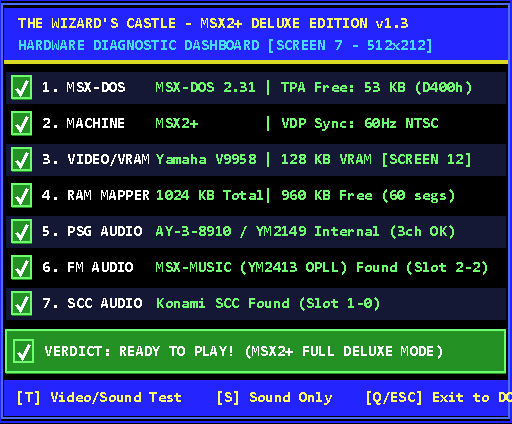
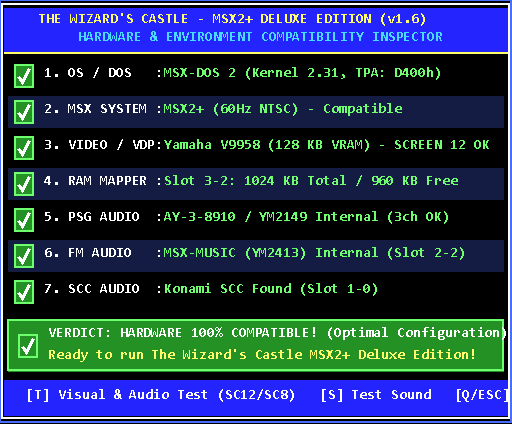
v1.6: Update README screenshots (MSX1/MSX2/MSX2+), docs (OUTLINE/MANUAL/SPEC), and create resume.txt

diff --git a/docs/OUTLINE.md b/docs/OUTLINE.md
@@ -31,7 +31,7 @@ Além de ser **100% compatível** com a lógica e regras do jogo original e do p
 
 ## 2. Status de Implementação (O que já foi feito vs. O que falta fazer)
 
-### Fase 1: Documentação, Arquitetura e Diagnóstico de Hardware (STUB)
+### Fase 1: Documentação, Arquitetura e Diagnóstico de Hardware (`v1.1` – `v1.6` — CONCLUÍDA)
 - [x] Análise completa do código-fonte C++ de `winwiz` (`wizard.h`, `CastleInit.cpp`, `initscrn.cpp`, `keyboard.cpp`, `combat.cpp`, `vendor.cpp`, `wfuncs.cpp`, `winwiz.cpp`).
 - [x] Análise da arquitetura e módulos do `MSXgl` (`dos`, `dos_mapper`, `vdp`, `msx-music`, `scc`, `psg`, `lvgm_player`, `ayfx_player`).
 - [x] Criação da pasta `docs/` com:
@@ -39,16 +39,26 @@ Além de ser **100% compatível** com a lógica e regras do jogo original e do p
   - [x] `docs/SPEC.md` (Especificação técnica detalhada)
   - [x] `docs/OUTLINE.md` (Este documento de acompanhamento)
   - [x] `docs/MANUAL.md` (Manual completo de compilação e do jogador)
-- [x] Criação da estrutura do projeto em `MSXgl/projects/wizcastle/` (`project_config.js`, `msxgl_config.h`, `build.bat`, `wizcastle.c`).
-- [x] Implementação e compilação do **STUB de Detecção de Hardware** (`wizcastle.c`), verificando:
-  - [x] Versão do MSX-DOS (DOS 1.x vs DOS 2.x / Nextor) e TPA livre
-  - [x] Geração do MSX (MSX1, MSX2, MSX2+, MSX turbo R) e frequência VBlank (50Hz / 60Hz)
-  - [x] Chip VDP (TMS9918A, V9938, V9958) e quantidade de VRAM (16 KB, 64 KB, 128 KB)
-  - [x] Memory Mapper (Extended BIOS, número de segmentos, RAM Total em KB e RAM Livre em KB)
-  - [x] Chip de som PSG (AY-3-8910 / YM2149) com teste de registrador e bip sonoro
-  - [x] Chip de som FM MSX-MUSIC (YM2413 / OPLL interno ou externo + Slot/Subslot)
-  - [x] Chip de som Konami SCC / SCC+ (+ Slot/Subslot)
-  - [x] Veredito final de compatibilidade (`READY TO PLAY` vs lista de requisitos ausentes)
+- [x] Criação da estrutura do projeto em `MSXgl/projects/wizcastle/` (`project_config.js`, `msxgl_config.h`, `build.bat`, `wizcastle.c`, `src/wiz_hwcheck.c`, `src/wiz_hwcheck.h`, `src/wiz_version.h`).
+- [x] Configuração de licenciamento dual (`LICENSE`), `README.md`, `CHANGELOG.md` e `resume.txt`.
+- [x] Implementação do **Disco de Boot Universal (`DOS2_wizcastle.dsk`)** em 3 camadas:
+  - [x] **MSX-DOS 2 (`MSXDOS2.SYS` + `COMMAND2.COM`):** Boot nativo para MSX2 / MSX2+ / turbo R com MSX-DOS 2 / Nextor.
+  - [x] **MSX-DOS 1 (`MSXDOS.SYS` + `COMMAND.COM`):** Boot automático para máquinas MSX1 / MSX2 / MSX2+ com apenas ROM de MSX-DOS 1 e `>= 64 KB` de RAM.
+  - [x] **MSX Disk-BASIC Fallback (`AUTOEXEC.BAS`):** Relatório de incompatibilidade para MSX1 com `< 64 KB` de RAM (16/32 KB) que caem no Disk-BASIC.
+- [x] Implementação do **Dashboard Gráfico Adaptativo de Diagnóstico de Hardware** (`src/wiz_hwcheck.c`):
+  - [x] **`SCREEN 7` (`512×212`, 16 cores) para MSX2 / MSX2+ / MSX turbo R (`V9938` / `V9958`):** Cartões com badges gráficos `20×12` (`[✓]` Verde, `[✗]` Vermelho, `[!]` Amarelo, `[i]` Ciano).
+  - [x] **`SCREEN 2` (`256×192`, 32×24 tiles) para MSX1 (`TMS9918A`):** Tiles gráficos customizados `8×8` (`[✓]`, `[✗]`, `[!]`, `[i]`) e escrita direta nos registradores `R#0..R#7` (evitando espelhamento de 3 bits `R#8..R#25 -> R#0..R#7` no `TMS9918A`).
+  - [x] Inspeção de 7 subsistemas:
+    1. Versão do MSX-DOS (DOS 1.x vs DOS 2.x / Nextor) e TPA livre (`0006h`)
+    2. Geração do MSX (MSX1, MSX2, MSX2+, MSX turbo R) e frequência VBlank (50Hz / 60Hz)
+    3. Chip VDP (TMS9918A, V9938, V9958) e quantidade de VRAM (16 KB, 64 KB, 128 KB)
+    4. Memory Mapper (Extended BIOS, Slot, número de segmentos, RAM Total e RAM Livre)
+    5. Chip de som PSG (AY-3-8910 / YM2149) via loopback de registrador
+    6. Chip de som FM MSX-MUSIC (YM2413 / OPLL interno ou externo + Slot/Subslot)
+    7. Chip de som Konami SCC / SCC+ (+ Slot/Subslot)
+  - [x] **Teste Interativo Visual e Sonoro (`[T]` / `[S]`):**
+    - [x] Teste de `SCREEN 12` (19.268 cores YJK) + `SCREEN 8` (mockup do layout de 256 cores GRB) + acorde simultâneo em `PSG` + `YM2413 OPLL` + `Konami SCC`.
+    - [x] Preservação e restauração automática da fonte de modo texto (`0xD800` VRAM) ao retornar ao MSX-DOS (`[Q]`/`[ESC]`).
 
 ---
 

diff --git a/docs/MANUAL.md b/docs/MANUAL.md
@@ -51,13 +51,25 @@ Para a experiência completa, configure seu emulador ou hardware real com:
   * **MSX-MUSIC (YM2413 / OPLL — FM)** interno ou via cartucho (FM-PAC / Carnivore2) para a trilha sonora FM.
   * **Konami SCC / SCC+** (opcional, detectado automaticamente se inserido em um slot).
 
-### 4. Utilitário de Diagnóstico de Hardware no Boot
-Ao executar `WIZCASTL.COM` no MSX-DOS, o programa realiza uma verificação completa do hardware antes de iniciar a partida:
-* **OS / MSX-DOS:** Verifica se está rodando sob MSX-DOS 2 (ou Nextor) com suporte a *File Handles* (BDOS `40h+`). Se iniciado sob MSX-DOS 1, exibe `[FAIL]` indicando que o MSX-DOS 2 é necessário.
-* **MSX Generation & VDP:** Verifica a geração da máquina na BIOS (`002Dh`) e o chip de vídeo (`V9958` vs `V9938`/`TMS9918A`), além da frequência vertical (`50Hz` PAL / `60Hz` NTSC).
-* **VRAM Size:** Confirma a presença de **128 KB de VRAM** necessários para as duas páginas do SCREEN 8 e SCREEN 12.
-* **Memory Mapper:** Consulta a Extended BIOS (`ALL_SEG` / `GET_VAR`) e mostra quantos segmentos de 16 KB existem no total (ex: `64 segs = 1024 KB`) e quantos estão livres para o jogo.
-* **Chips de Áudio (PSG, FM OPLL, Konami SCC):** Testa os registradores do PSG e escaneia todos os slots primários e expandidos em busca do **MSX-MUSIC (YM2413)** e do **Konami SCC**, exibindo o Slot/Subslot exato onde cada chip foi encontrado.
+### 4. Utilitário Gráfico de Diagnóstico de Hardware e Disco Universal (`v1.6`)
+A imagem de disco **`emul/dsk/DOS2_wizcastle.dsk`** conta com **Boot Universal em 3 camadas**, permitindo testar a compatibilidade em qualquer computador MSX com drive de disquete:
+1. **MSX-DOS 2 (`MSXDOS2.SYS` + `COMMAND2.COM`):** Inicia o `WIZCASTL.COM` em máquinas MSX2 / MSX2+ / turbo R com MSX-DOS 2 ou Nextor.
+2. **MSX-DOS 1 (`MSXDOS.SYS` + `COMMAND.COM`):** Inicia o `WIZCASTL.COM` em máquinas MSX1 / MSX2 / MSX2+ que possuem apenas ROM de MSX-DOS 1 e `>= 64 KB` de RAM.
+3. **MSX Disk-BASIC (`AUTOEXEC.BAS`):** Caso a máquina tenha `< 64 KB` de RAM (ex: MSX1 de 16 KB ou 32 KB sem RAM na Página 0) e caia no Disk-BASIC, executa automaticamente o `AUTOEXEC.BAS` exibindo o relatório de incompatibilidade.
+
+Ao executar `WIZCASTL.COM`, o programa abre automaticamente um **Dashboard Gráfico Adaptativo**:
+* **Em MSX2 / MSX2+ / MSX turbo R (`V9938` / `V9958`):** Renderiza um painel gráfico em **`SCREEN 7` (`512×212`, 16 cores)** com cartões e *badges* gráficos `20×12` pixels (`[✓]` Verde, `[✗]` Vermelho, `[!]` Amarelo e `[i]` Ciano).
+* **Em MSX1 (`TMS9918A`):** Renderiza um painel gráfico em **`SCREEN 2` (`256×192`, 32×24 tiles)** com ícones gráficos customizados `8×8` (`[✓]`, `[✗]`, `[!]`, `[i]`) usando acesso direto aos registradores `R#0..R#7` (evitando o espelhamento de 3 bits do `TMS9918A`).
+* **Itens Inspecionados:**
+  1. **OS / MSX-DOS:** Verifica se está rodando sob MSX-DOS 2 / Nextor (`Kernel >= 2.20`) e exibe o topo da TPA (`0006h`).
+  2. **MSX Generation:** Verifica a geração da máquina (`MSX1`, `MSX2`, `MSX2+`, `MSX turbo R`) e a frequência vertical (`50Hz` PAL / `60Hz` NTSC).
+  3. **Video / VDP & VRAM:** Identifica o VDP (`TMS9918A`, `V9938`, `V9958`) e a quantidade de VRAM (`16 KB`, `64 KB`, `128 KB`).
+  4. **Memory Mapper:** Consulta a Extended BIOS (`ALL_SEG` / `GET_VAR`) e mostra o Slot, RAM total em KB (ex: `1024 KB`) e RAM livre em KB.
+  5. **Chips de Áudio (PSG, FM OPLL, Konami SCC):** Testa os registradores do PSG e escaneia todos os slots primários e expandidos em busca do **MSX-MUSIC (YM2413)** e do **Konami SCC**, exibindo o Slot/Subslot exato onde cada chip foi encontrado.
+* **Atalhos Interativos (quando compatível):**
+  * **`[T]`:** Executa o teste visual de **`SCREEN 12`** (19.268 cores YJK) + **`SCREEN 8`** (mockup de 256 cores GRB da interface do jogo) + acorde simultâneo em **PSG + FM + SCC**.
+  * **`[S]`:** Reproduz o teste sonoro polifônico.
+  * **`[Q]` / `[ESC]`:** Restaura a fonte original da `SCREEN 0` (salva em `0xD800` da VRAM) e retorna limpo ao prompt do MSX-DOS.
 
 ---
 

diff --git a/README.md b/README.md
@@ -20,23 +20,32 @@ This **MSX2+ Enhanced Edition** preserves **100% gameplay compatibility** while 
   - **Music (lVGM):** Hybrid background soundtrack utilizing **PSG (AY-3-8910)** + **MSX-MUSIC (YM2413 / OPLL FM)** + **Konami SCC** (when present).
   - **Sound Effects (ayFX):** 16 distinct in-game sound effects (footsteps, stairs, sinkholes, warps, sword hits, fireballs, vendor chimes, victory/death fanfares) mixed on PSG Channel C.
 - **Bilingual Support:** Full in-game localization in **English (`EN`)** and **Portuguese (`PT-BR`)**.
-- **Built-in Hardware Diagnostic Tool:** Startup hardware inspector verifying MSX generation (MSX1/MSX2/MSX2+/Turbo R), VDP (TMS9918/V9938/V9958), MSX-DOS version, Extended BIOS Mapper RAM (testing for 1024 KB total / ≥128 KB free), PSG, MSX-MUSIC (FM), and Konami SCC.
+- **Adaptive Graphical Hardware Diagnostic Dashboard & Universal Boot Disk (`v1.6`):**
+  - **Universal Boot Disk (`DOS2_wizcastle.dsk`):** Bundled with `MSXDOS2.SYS` + `COMMAND2.COM` (MSX-DOS 2), `MSXDOS.SYS` + `COMMAND.COM` (MSX-DOS 1.11), and `AUTOEXEC.BAS` (MSX Disk-BASIC fallback) so **any** MSX machine (MSX1, MSX2, MSX2+, or turbo R) boots directly into the diagnostic report instead of dropping to a blank BASIC prompt.
+  - **`SCREEN 7` (`512×212`, 16 colors) on MSX2 / MSX2+ / turbo R:** High-resolution graphical inspector with `20×12` pixel badges (`[✓]` Green, `[✗]` Red, `[!]` Yellow, `[i]` Cyan).
+  - **`SCREEN 2` (`256×192`, 32×24 tiles) on MSX1 (`TMS9918A`):** Custom 8×8 graphical badge tiles (`[✓]`, `[✗]`, `[!]`, `[i]`) and color-coded status rows using pure `R#0..R#7` register writes (preventing 3-bit `TMS9918A` register mirroring).
 
 ---
 
 ## Screenshots / Galeria Visual
 
-### 1. MSX2+ Hardware Diagnostic Stub & Video/Audio Verification (`v1.2`)
+### 1. Adaptive Graphical Hardware Diagnostic Dashboard (`v1.6`)
 
-| MSX-DOS 2 Hardware Compatibility Report (`SCREEN 0`, 80×24) |
+| **MSX2+ / turbo R — `SCREEN 7` (`512×212`, 100% Compatible)** |
 | :---: |
-| ![MSX-DOS 2 Hardware Report](docs/images/msx_hwcheck_report.png) |
+| ![MSX2+ SCREEN 7 Hardware Report](docs/images/msx_hwcheck_report.png) |
 
-| `SCREEN 12` Test (19,268 YJK Colors) | `SCREEN 8` Game UI Layout Mockup (256 Colors) |
+| **MSX2 (`V9938` / `MSX-DOS 1`) — `SCREEN 7` (`512×212`)** | **MSX1 (`TMS9918A` / `MSX-DOS 1`) — `SCREEN 2` (`256×192`)** |
+| :---: | :---: |
+| ![MSX2 SCREEN 7 Hardware Report](docs/images/msx2_hwcheck_screen7.png) | ![MSX1 SCREEN 2 Hardware Report](docs/images/msx1_hwcheck_screen2.png) |
+
+### 2. Interactive Visual & Audio Hardware Verification (`[T]` / `[S]` Keys)
+
+| `SCREEN 12` Test (19,268 YJK Colors + PSG/FM/SCC Audio) | `SCREEN 8` Game UI Layout Mockup (256 GRB Colors) |
 | :---: | :---: |
 | ![MSX2+ SCREEN 12 Test](docs/images/msx_hwcheck_sc12.png) | ![MSX2+ SCREEN 8 Layout](docs/images/msx_hwcheck_sc8.png) |
 
-### 2. Original Reference Version Being Ported (*WinWiz* by Daniel D. Miller)
+### 3. Original Reference Version Being Ported (*WinWiz* by Daniel D. Miller)
 
 | Intro & Rules Screen | Main Dungeon Map & HUD | Vendor Trading Screen |
 | :---: | :---: | :---: |
@@ -74,6 +83,8 @@ wizcastle/
 │           ├── wizcastle.c         # Main entry point (DOS2 main)
 │           └── src/                # Game modules (hardware check, mapper, video, audio, logic)
 ├── winwiz/                         # Reference C++ Port by Daniel D. Miller (CC0 1.0)
+├── CHANGELOG.md                    # Complete X.Y Version & Build History
+├── resume.txt                      # Multi-PC Development Handoff & Progress Summary
 ├── LICENSE                         # Licensing & Third-Party Attributions
 └── README.md                       # This file
 ```

diff --git a/docs/SPEC.md b/docs/SPEC.md
@@ -6,16 +6,16 @@
 ## 1. Visão Geral do Sistema
 **The Wizard's Castle — MSX2+ Deluxe Edition** é uma recriação gráfica e sonora para computadores **MSX2+** (e compatíveis superiores como MSX turbo R) rodando **MSX-DOS 2**, mantendo 100% de fidelidade às regras tanto do port em C++ (**WinWiz**, de Daniel D. Miller, 1985–2025) quanto do jogo original em BASIC (**The Wizard's Castle**, de Joseph R. Power, *Recreational Computing*, Jul/Ago 1980).
 
-### 1.1 Requisitos de Hardware e Sistema
-| Componente | Requisito Mínimo (Obrigatório) | Recomendado (Ideal) | Comportamento do Diagnóstico (Stub) |
+### 1.1 Requisitos de Hardware, Disco de Boot Universal e Diagnóstico Gráfico (`v1.6`)
+| Componente | Requisito Mínimo (Obrigatório) | Recomendado (Ideal) | Comportamento do Diagnóstico Gráfico (`SCREEN 7` / `SCREEN 2`) |
 | :--- | :--- | :--- | :--- |
-| **Geração MSX** | **MSX2+** (`ID >= 2` em `002Dh`) | **MSX2+** ou **MSX turbo R** | Em MSX1 ou MSX2 alerta falta de SCREEN 12 / V9958 (`[FAIL]` em MSX1, `[WARN]`/`[FAIL]` em MSX2). |
-| **VDP (Vídeo)** | **Yamaha V9958** com **128 KB VRAM** | **Yamaha V9958** (128 KB VRAM) | Verifica `VDP_GetVersion() == VDP_VERSION_V9958` e `g_MODE` (`128 KB VRAM`). |
-| **Sistema Operacional** | **MSX-DOS 2.20+** ou **Nextor** | **MSX-DOS 2.20+** / **Nextor 2.1+** | Em MSX-DOS 1.x reporta ausência de File Handles e Extended BIOS Mapper (`[FAIL]`). |
-| **RAM (Memory Mapper)** | **256 KB** (mín. 8 segmentos livres) | **1024 KB (1 MB)** (64 segmentos) | Verifica `DOSMapper_Init()`, lista total de RAM (KB) e RAM livre (KB). |
+| **Geração MSX** | **MSX2+** (`ID >= 2` em `002Dh`) | **MSX2+** ou **MSX turbo R** | Em MSX2/2+/TR renderiza dashboard em **`SCREEN 7` (`512×212`)**; em MSX1 renderiza dashboard em **`SCREEN 2` (`256×192`)** com badges `[✓]`/`[✗]`/`[!]`/`[i]`. |
+| **VDP (Vídeo)** | **Yamaha V9958** com **128 KB VRAM** | **Yamaha V9958** (128 KB VRAM) | Verifica `VDP_GetVersion() == VDP_VERSION_V9958` e `g_MODE` (`128 KB VRAM`). Em MSX1 (`TMS9918A`) usa escrita direta `R#0..R#7` para evitar espelhamento de 3 bits. |
+| **Sistema Operacional** | **MSX-DOS 2.20+** ou **Nextor** | **MSX-DOS 2.20+** / **Nextor 2.1+** | O disco `DOS2_wizcastle.dsk` inclui `MSXDOS2.SYS` + `COMMAND2.COM` (DOS2), `MSXDOS.SYS` + `COMMAND.COM` (DOS1) e `AUTOEXEC.BAS` (Disk-BASIC `<64KB` fallback). |
+| **RAM (Memory Mapper)** | **256 KB** (mín. 8 segmentos livres) | **1024 KB (1 MB)** (64 segmentos) | Verifica `DOSMapper_Init()`, lista Slot, total de RAM (KB) e RAM livre (KB). |
 | **Áudio Base** | **PSG** (AY-3-8910 / YM2149) | **PSG** (3 canais + gerador de ruído) | Testa leitura/escrita nos registradores do PSG (`A0h–A2h`). |
-| **Áudio FM** | Opcional (Recomendado) | **MSX-MUSIC (YM2413 / OPLL)** | Detecta chip interno ou cartucho externo (FM-PAC) e exibe o Slot/Subslot (`[ OK ]` ou `[WARN]`). |
-| **Áudio Wavetable** | Opcional (Suportado) | **Konami SCC / SCC+** (K051649) | Varre slots em busca de cartucho SCC/SCC+ e exibe o Slot/Subslot (`[ OK ]` ou `[INFO]`). |
+| **Áudio FM** | Opcional (Recomendado) | **MSX-MUSIC (YM2413 / OPLL)** | Detecta chip interno ou cartucho externo (FM-PAC, habilitando bit 0 de `7FF6h`) e exibe o Slot/Subslot (`[✓]` ou `[!]`). |
+| **Áudio Wavetable** | Opcional (Suportado) | **Konami SCC / SCC+** (K051649) | Varre slots em busca de cartucho SCC/SCC+ e exibe o Slot/Subslot (`[✓]` ou `[i]`). |
 
 ---
 

diff --git a/CHANGELOG.md b/CHANGELOG.md
@@ -10,12 +10,18 @@ All notable changes, specifications, and builds of this project are documented i
 
 ---
 
-## [1.6] - 2026-10-31 — *Fix SCREEN 2 Font ASCII Offset on MSX1*
+## [1.6] - 2026-10-31 — *Adaptive Graphical Hardware Diagnostic Dashboard (SCREEN 7 / SCREEN 2) & Universal Boot Disk*
 
-### Fixed
+> **Release Subtitle:** *Adaptive SCREEN 7 (MSX2/2+) & SCREEN 2 (MSX1) Graphical Hardware Inspector, Universal 3-Layer Boot Disk & Verified SCREEN 12/8 + FM/SCC Test Suite*
+> **Consolidated Release (`v1.1` → `v1.6`):** Completes Phase 1 with a full graphical hardware diagnostic dashboard across all MSX generations (`SCREEN 7` 512×212 on MSX2/2+/turbo R and `SCREEN 2` 256×192 on MSX1), a universal boot disk (`MSX-DOS 2` + `MSX-DOS 1` + `MSX Disk-BASIC`), hardware-timed `SCREEN 12`/`SCREEN 8` + `PSG`/`OPLL`/`SCC` verification, and complete updated documentation + multi-PC handoff (`resume.txt`).
+
+### Fixed & Added in `v1.6`
 - **`SCREEN 2` & `SCREEN 0 (W40)` Font Table Offset (`src/wiz_hwcheck.c`):**
   - Fixed character glyph offset when loading `g_Font_MGL_Sample6` into `SCREEN 2` (and `SCREEN 0` on MSX 1). Because `g_Font_MGL_Sample6` starts at character `0x00` (offset `4`) rather than `0x20` (`32`), copying from `g_Font_MGL_Sample6 + 4` into tile `32` shifted all displayed characters by `-32` ASCII positions.
   - Updated all `TMS_WriteVRAM` font loads to start at `g_Font_MGL_Sample6 + 4 + (32 * 8)` (offset `260`, `Sprite[32]`), aligning ASCII `32..127` (White), `32..95` (Green at tiles `128..191`), and `32..95` (Red at tiles `192..255`).
+- **Complete Documentation & Multi-PC Handoff (`README.md`, `resume.txt`, `docs/`):**
+  - Added `resume.txt` with full architectural handoff, technical gotchas, and Phase 2–5 roadmap for seamless continuation on any PC.
+  - Added screenshots of the graphical diagnostic on **MSX2+ (`SCREEN 7`)**, **MSX2 (`SCREEN 7`)**, and **MSX1 (`SCREEN 2`)** to `README.md`, and updated `docs/OUTLINE.md`, `docs/MANUAL.md`, and `docs/SPEC.md`.
 
 ---
 
